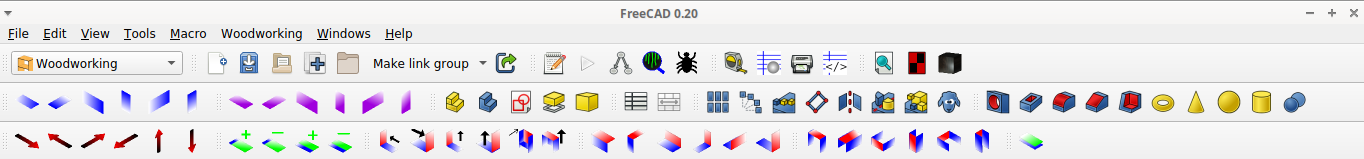
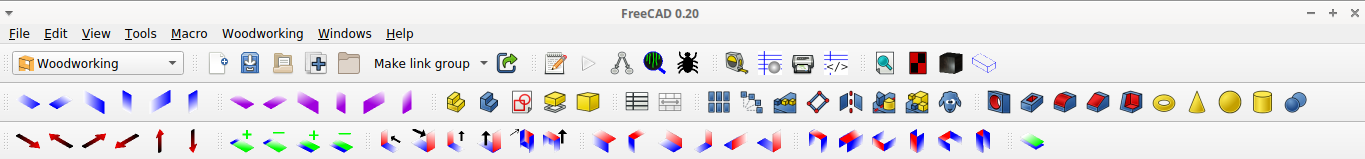
transparent preview feature

diff --git a/loadTools.py b/loadTools.py
@@ -210,6 +210,46 @@ FreeCADGui.addCommand("debugInfo", debugInfo())
 	
 
 # ######################################################################################################################
+class makeTransparent():
+
+	def GetResources(self):
+		return {"Pixmap"  : os.path.join(iconPath, "makeTransparent.xpm"),
+				"Accel"   : "",
+				"MenuText": "transparent or normal mode",
+				"ToolTip" : "Make all parts transparent, so you can see all the joints, pilot holes, screws, countersinks. If you click senond one all parts will back to normal. The transparent default is 83, so do not set any part to this number if you want e.g. to keep glass part of the furniture transparent after this preview."}
+
+	def Activated(self):
+
+		import os, sys
+		import fakemodule
+
+		modulePath = sys.path
+		
+		module = "makeTransparent"
+		
+		path = os.path.dirname(fakemodule.__file__)
+		path = os.path.join(path, "Tools")
+		
+		sys.path.append(path)
+
+		if module in sys.modules:
+			del sys.modules[module]
+
+		__import__(module, globals(), locals(), [], 0)
+		
+		sys.path = modulePath
+
+		return
+
+	def IsActive(self):
+		# not needed now, maybe in the future
+		return True
+
+FreeCADGui.addCommand("makeTransparent", makeTransparent())
+
+	
+
+# ######################################################################################################################
 class panelDefaultXY():
 
 	def GetResources(self):

diff --git a/loadToolsSettings.py b/loadToolsSettings.py
@@ -21,6 +21,8 @@ Tools = [
 	"setTextures", "", "setTextures", "setTextures", "Store textures URL at object's property and allows to load textures from stored URL.",
 	
 	"debugInfo", "", "debugInfo", "debugInfo", "Copy platform details to clipboard for bug report purposes.",
+
+	"makeTransparent", "", "makeTransparent", "transparent or normal mode", "Make all parts transparent, so you can see all the joints, pilot holes, screws, countersinks. If you click senond one all parts will back to normal. The transparent default is 83, so do not set any part to this number if you want e.g. to keep glass part of the furniture transparent after this preview.",
 	
 	# #################################################################################################################################
 	# Magic Panels - default

diff --git a/Tools/makeTransparent.py b/Tools/makeTransparent.py
@@ -1,0 +1,32 @@
+import FreeCAD
+
+gChange = []
+gType = ""
+
+for o in FreeCAD.activeDocument().Objects:
+	
+	try:
+
+		if str(o.ViewObject.Transparency) == "0":
+			gChange.append(o)
+			gType = "set"
+
+		if str(o.ViewObject.Transparency) == "83":
+			gChange.append(o)
+			gType = "unset"
+
+	except:
+		skip = 1
+
+for o in gChange:
+
+	try:
+
+		if gType == "set":
+			o.ViewObject.Transparency = 83
+
+		if gType == "unset":
+			o.ViewObject.Transparency = 0
+
+	except:
+		skip = 1

diff --git a/loadToolbar.py b/loadToolbar.py
@@ -156,7 +156,8 @@ def getItems(iType):
 		parts = [
 			"Std_ViewFitAll",
 			"Std_TextureMapping",
-			"setTextures"
+			"setTextures",
+			"makeTransparent"
 		]
 
 	if iType == "Code and Debug":

diff --git a/README.md b/README.md
@@ -13,6 +13,7 @@ This is Woodworking workbench for FreeCAD.
 * [setTextures](https://github.com/dprojects/setTextures) - allows to store, load, repeat and rotate textures from URL.
 * [scanObjects](https://github.com/dprojects/scanObjects) - allows to live inspect and debug project, also view FreeCAD or any other module API.
 * [debugInfo](https://github.com/dprojects/Woodworking/blob/master/Tools/debugInfo.py) - allows to get quick and simple debug info for bug report.
+* [makeTransparent](https://github.com/dprojects/Woodworking/blob/master/Tools/makeTransparent.py) - allows to make all parts at transparent and back to normal. You can preview all pilot holes, countersinks or any other joints like that, very simply.
 * Also clean toolbar, with sections adjusted for woodworking.
 
 ![000](https://raw.githubusercontent.com/dprojects/Woodworking/master/Screenshots/000.png)
